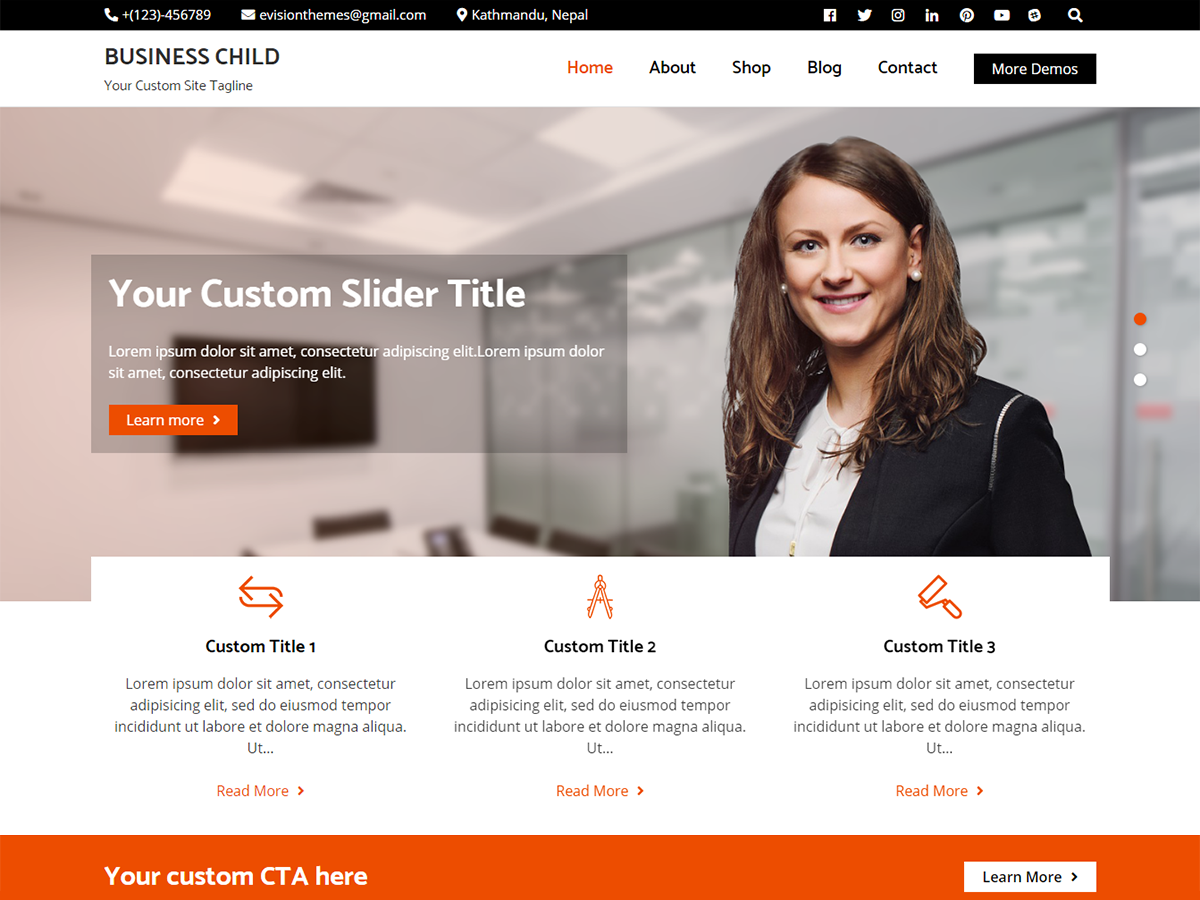
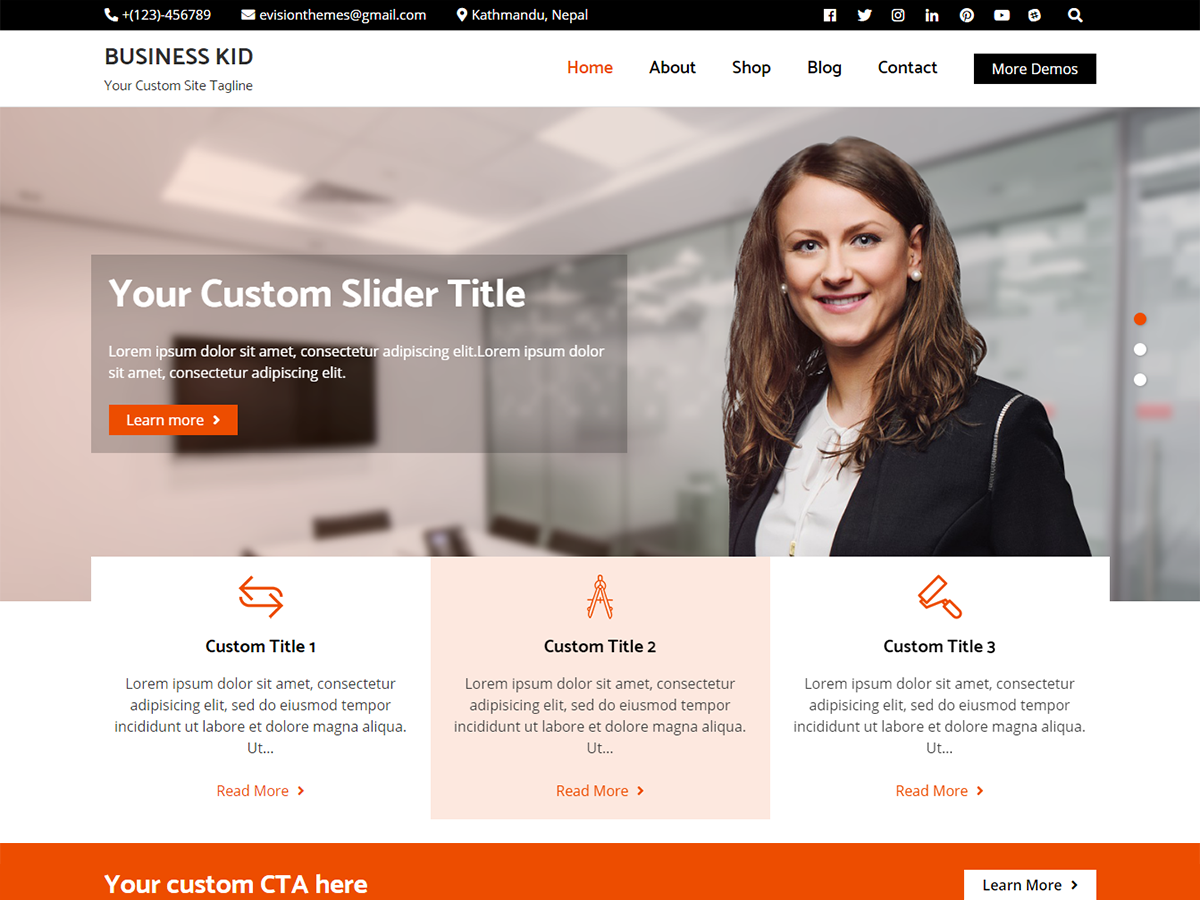
Theme Business Kid added.

Changed region(s): [[0.0, 0.5911, 1.0, 1.0], [0.185, 0.0311, 0.2467, 0.0933]]

diff --git a/style.css b/style.css
@@ -1,11 +1,11 @@
 /**
-Theme Name: Business Child
+Theme Name: Business Kid
 Theme URI: http://evisionthemes.com/product/business-click/
 Author: eVision Themes
 Author URI: http://evisionthemes.com/
 Template: business-click
-Text Domain: business-child
-Description: Business Child theme is a clean and simple child theme of Business Click with flexible features. No coding required. You can create a professional website within few moments. It's free! This creative theme supports popular plugins like Jetpack, WP page navi, Contact form 7, Elementor page builder, Page Builder by SiteOrigin, W3 Total Cache, Social Pug, All in One SEO Pack, MailChimp, WooCommerce etc. If you are a non-techy person, you can easily modify the theme and design using live customizer in Dashboard > Appearance> Customize. You can change the color and the font of each and every text, link in the theme.
+Text Domain: business-kid
+Description: Business Kid theme is a clean and simple child theme of Business Click with flexible features. No coding required. You can create a professional website within few moments. It's free! This creative theme supports popular plugins like Jetpack, WP page navi, Contact form 7, Elementor page builder, Page Builder by SiteOrigin, W3 Total Cache, Social Pug, All in One SEO Pack, MailChimp, WooCommerce etc. If you are a non-techy person, you can easily modify the theme and design using live customizer in Dashboard > Appearance> Customize. You can change the color and the font of each and every text, link in the theme.
 Version: 1.0.0
 License: GNU General Public License v3 or later
 License URI: http://www.gnu.org/licenses/gpl-3.0.html

diff --git a/functions.php b/functions.php
@@ -5,18 +5,18 @@
  */  
 
 
-  add_action( 'wp_enqueue_scripts', 'business_child_style' );
-  function business_child_style() {
+  add_action( 'wp_enqueue_scripts', 'business_kid_style' );
+  function business_kid_style() {
 	wp_enqueue_style( 'bootstrap', get_template_directory_uri() . '/assets/frameworks/bootstrap/bootstrap.css' );
 
 	wp_enqueue_style( 'business-click-style', get_template_directory_uri() . '/style.css' );
-	wp_enqueue_style( 'business-child-style',get_stylesheet_directory_uri() . '/style.css',array('business-click-style'));
+	wp_enqueue_style( 'business-kid-style',get_stylesheet_directory_uri() . '/style.css',array('business-click-style'));
 }
 
 // theme name
 if ( ! function_exists ( 'business_click_theme_name' ) ) {
 	function business_click_theme_name() {
-		return esc_html__('Business Child','business-child');
+		return esc_html__('Business Kid','business-kid');
 	}
 }
 
